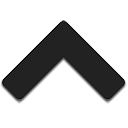
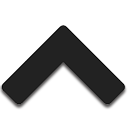
commit 3/3/16

Changed region(s): [[0.0, 0.1562, 1.0, 0.875]]

diff --git a/public/assets_social/css/forum.css b/public/assets_social/css/forum.css
@@ -7329,18 +7329,40 @@ button[type=submit]:disabled, input[type=submit]:disabled {
 
 
 .num_votes {
-    width: 75px;
-    font-size: 18px;
-    margin-top: -2px;
-    margin-bottom: -2px;
+  font-size: 20px;
+  border-style:solid;
+  border-width: 1px;
+  border-color: #e9e9e9;
+  height: 30px;
+  line-height: 30px;
+  margin-top: -1px;
+  margin-bottom: -1px;
+  background-color: #eee;
 }
 
 .up_vote, .down_vote {
-    height: 25px;
-    opacity: 0.8;
+  height: 45px;
+  width: 45px;
+  overflow-y: hidden ! important;
+  overflow-x: hidden ! important;
+  background-color: #eee;
+  border-style:solid;
+  border-width: 1px;
+  border-color: #e9e9e9;
+  background-size: 50%;
+  background-repeat: no-repeat;
+  background-position: 50% 50%;
+  transition: background-color .2s ease-out;
 }
 .up_vote {
-    margin-top:25px;
+  border-top-right-radius: 4px;
+  border-top-left-radius: 5px;
+  border-bottom-color: #eee;
+}
+.down_vote {
+  border-bottom-right-radius: 4px;
+  border-bottom-left-radius: 5px;
+  border-top-color: #eee;
 }
 
 @media only screen and (max-width: 400px) {

diff --git a/public/assets_social/js/forum_home.js b/public/assets_social/js/forum_home.js
@@ -223,16 +223,24 @@ function upVote(aid, user) {
 }
 
 function downVote(aid, user) {
-    var votesDivID = "answer"+aid+"votes";
-    $.ajax({
-        type:'GET',
-        url:'answer/downvote/'+aid+'/',
-        cache: true,
-        success: function(){
-            var value = parseInt($("#"+votesDivID).text(), 10) - 1;
-            $("#"+votesDivID).text(value);
-        }
-    });
+    if(user == "") {
+        $("#signInMessage").show();
+        $("#signInMessage").animate({
+            'margin-bottom': '15px'
+        });
+    } else {
+        var votesDivID = "answer"+aid+"votes";
+        $.ajax({
+            type:'GET',
+            url:'answer/downvote/'+aid+'/',
+            cache: true,
+            success: function(){
+                var value = parseInt($("#"+votesDivID).text(), 10) - 1;
+                $("#"+votesDivID).text(value);
+            }
+        });
+        $("#signInMessage").hide();
+    }
 }
 
 var getUrlParameter = function getUrlParameter(sParam) {

diff --git a/resources/views/forum.blade.php b/resources/views/forum.blade.php
@@ -27,6 +27,83 @@
             font-size: 15px;
             overflow: hidden;
         }
+
+        .btnForumRight {
+            border-top-left-radius: 0px !important;
+            border-bottom-left-radius: 0px !important;
+        }
+        .btnForumMiddle {
+            border-radius: 0px !important;
+            margin-right: -1px !important;
+        }
+        .btnForumLeft {
+            border-top-right-radius: 0px !important;
+            border-bottom-right-radius: 0px !important;
+            margin-right: -1px !important;
+        }
+
+        .btnForumStyle {
+            opacity: 0.5;
+            border-radius: 4px;
+            height: 40px;
+            width: 60px;
+            position: relative;
+            right: -16px;
+            overflow-y: hidden ! important;
+            overflow-x: hidden ! important;
+            background-color: #fff;
+            border-style:solid;
+            border-width: 1px;
+            border-color: #ccc;
+            background-size: 45%;
+            background-repeat: no-repeat;
+            background-position: 50% 50%;
+        }
+
+        .btnForumFlag {
+            background-image: url('{{ URL::asset('assets_social/img/flag_awesome.png') }}');
+        }
+        .btnForumFlag:hover {
+            outline: 0;
+            background-image: url('{{ URL::asset('assets_social/img/flag_awesome_w.png') }}');
+            background-color: #ff4d4d;
+            border-color: #e53a3a #e72929 #e71e1e #e92c2c;
+            transition: background-color .1s ease;
+            transition: border-color .1s ease;
+            box-shadow: 0 0px 0 rgba(255,0,0,.2),0 1px 5px rgba(255,0,0,.15);
+            opacity: 1;
+        }
+        .btnForumFlag:focus {
+            outline: 0;
+            opacity: 1;
+        }
+
+        .btnForumMarkBest {
+            background-image: url('{{ URL::asset('assets_social/img/star_awesome.png') }}');
+        }
+        .btnForumMarkBest:hover {
+            outline: 0;
+            background-image: url('{{ URL::asset('assets_social/img/star_awesome_w.png') }}');
+            background-color: #5555ff !important;
+            border-color: #5252FF #4444FF #3333FF #4444FF;
+            transition: background-color .5s ease;
+            transition: border-color .5s ease;
+            box-shadow: 0 0px 0 rgba(0,255,0,.2),0 1px 5px rgba(0,255,0,.15);
+            opacity: 1;
+        }
+        .btnForumMarkBest:focus {
+            outline: 0;
+            opacity: 1;
+        }
+
+
+        .Comment__footer {
+            margin-right: 15px !important;
+            padding: 0px 0px 0px 0px !important;
+            border: 0px solid #e9e9e9 !important;
+            background: #fff;
+        }
+
         .note-btn {
             width: auto !important;
         }
@@ -35,6 +112,19 @@
             border: 1px solid #ddd !important;
             margin-top: 10px;
         }
+        .up_vote:hover {
+            background-image: url('{{ URL::asset('assets_social/img/up_awesome_w.png') }}') !important;
+            background-color: #359f46 !important;
+            border-color: #34a334 #30a430 #228722 #2fa52f !important;
+            box-shadow: 0 0px 0 rgba(0,255,0,.2),0 1px 5px rgba(0,255,0,.15);
+        }
+        .down_vote:hover {
+            background-image: url('{{ URL::asset('assets_social/img/down_awesome_w.png') }}') !important;
+            background-color: #ff4d4d !important;
+            border-color: #e53a3a #e72929 #e71e1e #e92c2c !important;
+            box-shadow: 0 0px 0 rgba(0,255,0,.2),0 1px 5px rgba(0,255,0,.15);
+        }
+
     </style>
     <script type="text/javascript">
         $(document).ready(function() {
@@ -52,6 +142,7 @@
                 }, 1000);
             }
 
+            $('[data-toggle="tooltip"]').tooltip();
         });
     </script>
 @stop
@@ -93,9 +184,7 @@
                     <div class="Media__figure">
                         <div class="Thumbnail Thumbnail--medium Thumbnail--Circle">
                             <a href="" class="Media__figure">
-
-                                <img src="{{ URL::asset('assets/img/user_red.jpg') }}"
-                                     class="utility-circle" alt="">
+                                <img src="{{ URL::asset('assets/img/user_red.jpg')}}" class="utility-circle" alt="">
                             </a>
                         </div>
                     </div>
@@ -108,13 +197,14 @@
                                     </span>
                         </h5>
 
-
                         <div class="htmlFormattedForumText">
                             <p><?= $questionResult->qSubject ?></p>
                             <p><?= $questionResult->qBody ?></p>
                         </div>
 
-                        <footer class="Comment__footer"></footer>
+                        <footer class="Comment__footer" style="float: right;">
+
+                        </footer>
 
                     </div>
 
@@ -138,15 +228,16 @@
                                 </a>
 
                             </div>
-                            <div style="width:75px;" align="center">
-                                <img class="up_vote" src="{{ URL::asset('assets/img/up_vote.png') }}" onclick="upVote('<?= $answer->aid ?>', '<?= $firstname ?>')">
+                        </div>
+                        <div style="position: absolute;left: 15px;top:85px;width: 45px;height: 112px;">
+                            <div style="line-height: 0;" align="center">
+                                <input type="button" class="up_vote" style="background-image: url('{{ URL::asset('assets_social/img/up_awesome.png') }}');" onclick="upVote('<?= $answer->aid ?>', '<?= $firstname ?>')">
                             </div>
                             <div class="num_votes" id="answer<?= $answer->aid ?>votes" align="center"><?= ($answer->upVotes)-($answer->downVotes) ?></div>
-                            <div style="width:75px;" align="center">
-                                <img class="down_vote" src="{{ URL::asset('assets/img/down_vote.png') }}" onclick="downVote('<?= $answer->aid ?>', '<?= $firstname ?>')">
+                            <div style="line-height: 0;" align="center">
+                                <input type="button" class="down_vote" style="background-image: url('{{ URL::asset('assets_social/img/down_awesome.png') }}');" onclick="downVote('<?= $answer->aid ?>', '<?= $firstname ?>')">
                             </div>
                         </div>
-
 
                         <div class="Media__body">
 
@@ -169,7 +260,10 @@
                                 </div>
                             </div>
 
-
+                            <footer class="Comment__footer" style="float: right;">
+                                <input type="button" data-toggle="tooltip" data-container="body" data-placement="bottom" title="Mark as Best Answer" class="btnForumStyle btnForumMarkBest btnForumLeft">
+                                <input type="button" data-toggle="tooltip" data-container="body" data-placement="bottom" title="Flag Answer" class="btnForumStyle btnForumFlag btnForumRight">
+                            </footer>
                         </div>
 
                     </div>

diff --git a/public/pat_admin/home_12.blade.php b/public/pat_admin/home_12.blade.php
@@ -100,8 +100,8 @@
             border-color: #34a334 #30a430 #228722 #2fa52f !important;
             transition: background-color .5s ease;
             transition: border-color .5s ease;
-            box-shadow: 0 0px 0 rgba(0,0,255,.2),0 1px 5px rgba(0,0,255,.15);
-        } .btnQuestionDelete:focus {
+            box-shadow: 0 0px 0 rgba(0,255,0,.2),0 1px 5px rgba(0,255,0,.15);
+        } .btnQuestionApprove:focus {
               outline: 0;
           }
         .btnQuestionApproveHovered {
@@ -110,7 +110,7 @@
             border-color: #34a334 #30a430 #228722 #2fa52f !important;
             transition: background-color .5s ease;
             transition: border-color .5s ease;
-            box-shadow: 0 0px 0 rgba(0,0,255,.2),0 1px 5px rgba(0,0,255,.15);
+            box-shadow: 0 0px 0 rgba(0,255,0,.2),0 1px 5px rgba(0,255,0,.15);
         }
 
         .btnQuestionView {
@@ -178,7 +178,7 @@
             border-color: #db3939 #dc2929 #d81e1e #dd2c2c;
             transition: background-color .5s ease;
             transition: border-color .5s ease;
-            box-shadow: 0 0px 0 rgba(0,0,255,.2),0 1px 5px rgba(0,0,255,.15);
+            box-shadow: 0 0px 0 rgba(255,0,0,.2),0 1px 5px rgba(255,0,0,.15);
         } .btnQuestionDelete:focus {
               outline: 0;
           }
@@ -188,7 +188,7 @@
             border-color: #db3939 #dc2929 #d81e1e #dd2c2c;
             transition: background-color .5s ease;
             transition: border-color .5s ease;
-            box-shadow: 0 0px 0 rgba(0,0,255,.2),0 1px 5px rgba(0,0,255,.15);
+            box-shadow: 0 0px 0 rgba(255,0,0,.2),0 1px 5px rgba(255,0,0,.15);
         }
 
         @media screen and (max-width: 1100px){

diff --git a/app/Http/Controllers/ForumController.php b/app/Http/Controllers/ForumController.php
@@ -229,21 +229,29 @@ class ForumController extends Controller
     }
 
     function sendNewsletter() {
-        $theSubject = Input::get('subject');
         $bodyText = Input::get('content');
+        $theSubject = Input::get('subject');
 
-        $content = $bodyText;
+        $users = \DB::table('users')->get();
 
-        $data = [
-            'content' => $content
-        ];
+        /* comment this method call later */
+        self::sendMailNewsletter($theSubject, $bodyText, "muabdulla@ymail.com");
 
-        Mail::send('mail-template', $data, function($message) {
-            $message->from('muabdulla@outlook.com', $name = null);
-            $message->sender('muabdulla@outlook.com', $name = null);
-            $message->to('muabdulla@gmail.com', $name = null);
+        foreach($users as $user) {
+            /* enable this method call later */
+            //self::sendMailNewsletter($theSubject, $bodyText, $user->email);
+        }
+
+        return Redirect::intended('/admin_panel_home/');
+    }
+
+    public function sendMailNewsletter($subject, $body, $toMail){
+        $data = array('bodyText' => $body);
+        Mail::queue('forum_mail.newsletter', $data, function($message) use ($subject, $toMail)
+        {
+            $message->from('muabdulla@outlook.com', 'Ayurveda.lk Newsletter');
+            $message->to($toMail)->subject($subject);
         });
-        return "$bodyText";
     }
 
 }

diff --git a/public/pat_admin/home_13.blade.php b/public/pat_admin/home_13.blade.php
@@ -8,15 +8,6 @@ echo $txt;
 <link href="assets_social/css/summernote.css" rel="stylesheet">
 <link href="http://netdna.bootstrapcdn.com/font-awesome/4.3.0/css/font-awesome.css" rel="stylesheet">
 <script src="assets_social/js/summernote.min.js"></script>
-<script type="text/javascript">
-
-        $('#summernote').summernote({
-            height: 300,                 // set editor height
-            minHeight: null,             // set minimum height of editor
-            maxHeight: null,             // set maximum height of editor
-            focus: false                  // set focus to editable area after initializing summernote
-        });
-</script>
 
 <div>
     <div class="forumAdminHead">
@@ -53,3 +44,11 @@ echo $txt;
     </div>
     </div>
 </div>
+<script type="text/javascript">
+    $('#summernote').summernote({
+        height: 300,                 // set editor height
+        minHeight: null,             // set minimum height of editor
+        maxHeight: null,             // set maximum height of editor
+        focus: false                  // set focus to editable area after initializing summernote
+    });
+</script>

diff --git a/resources/views/forum_mail/newsletter.blade.php b/resources/views/forum_mail/newsletter.blade.php
@@ -1,0 +1,5 @@
+<div>
+    <div id="bodyText">
+        <?= $bodyText ?>
+    </div>
+</div>
